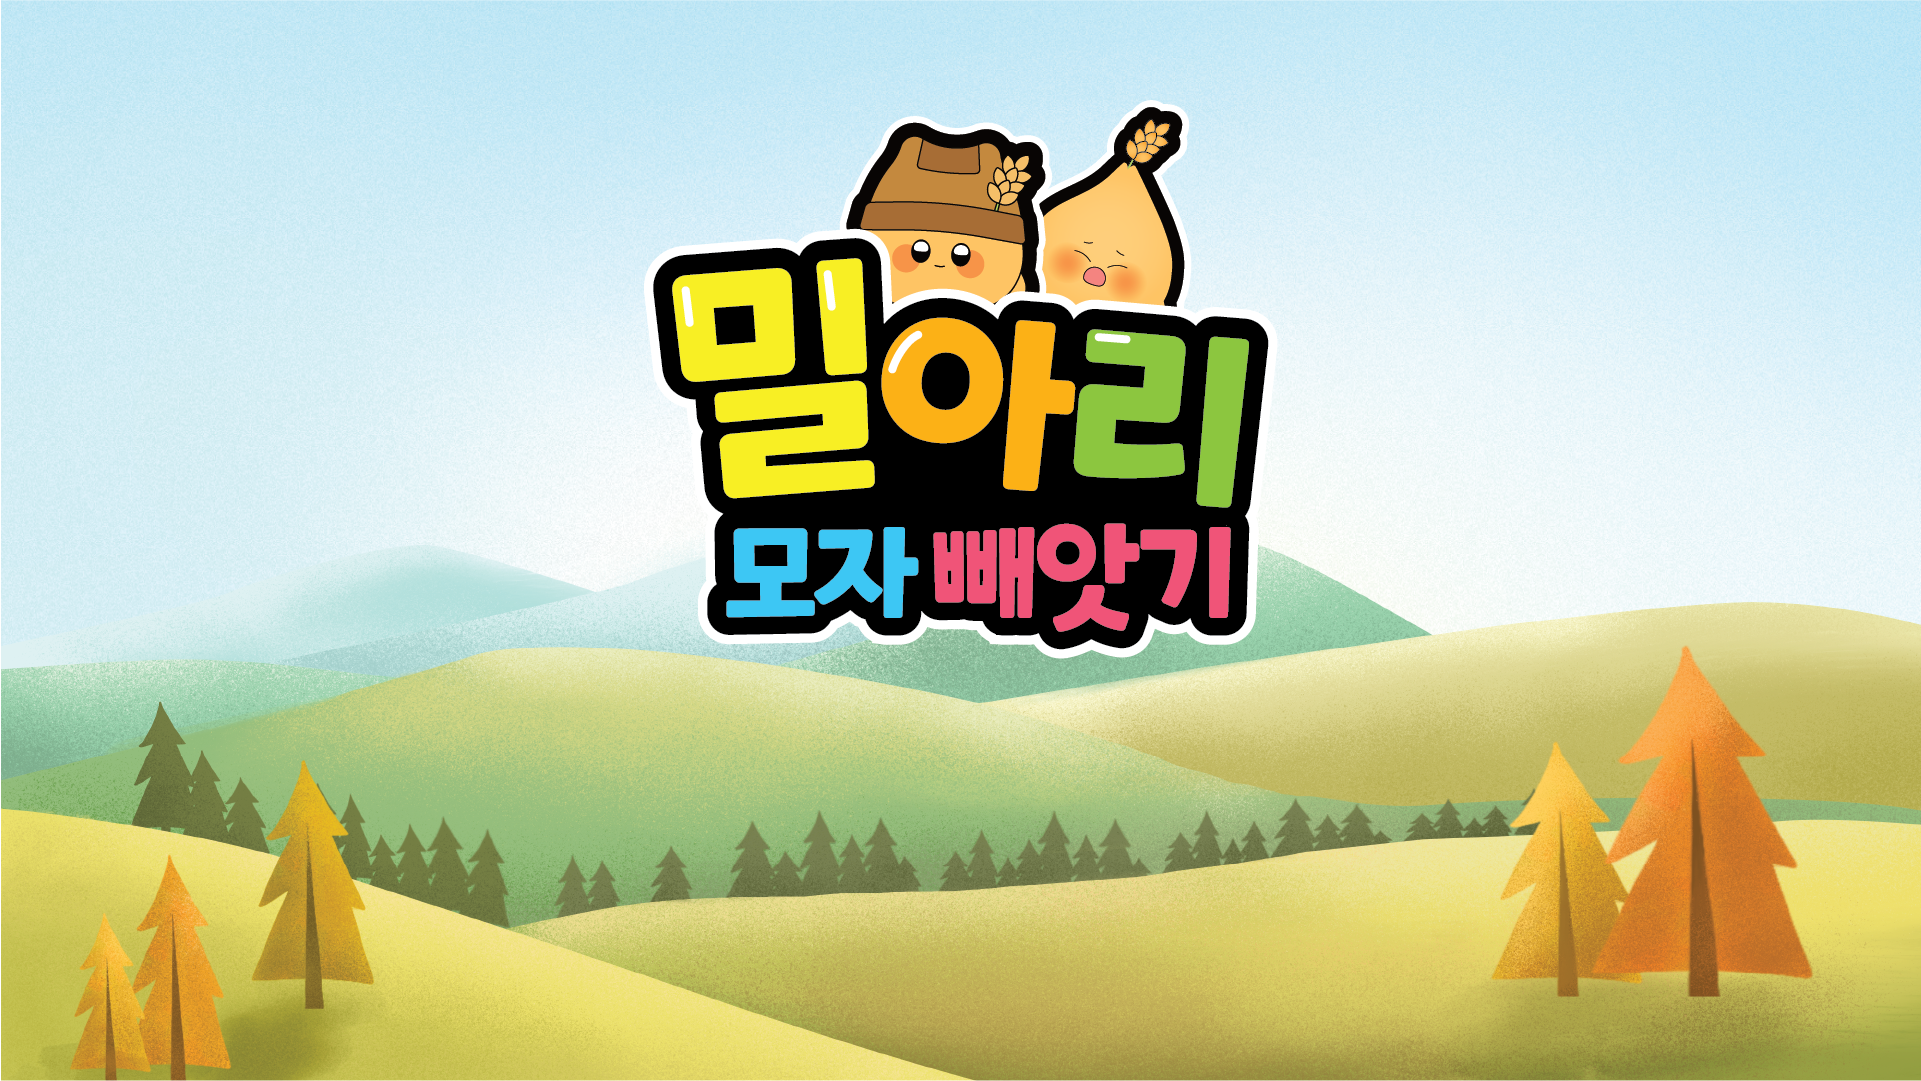
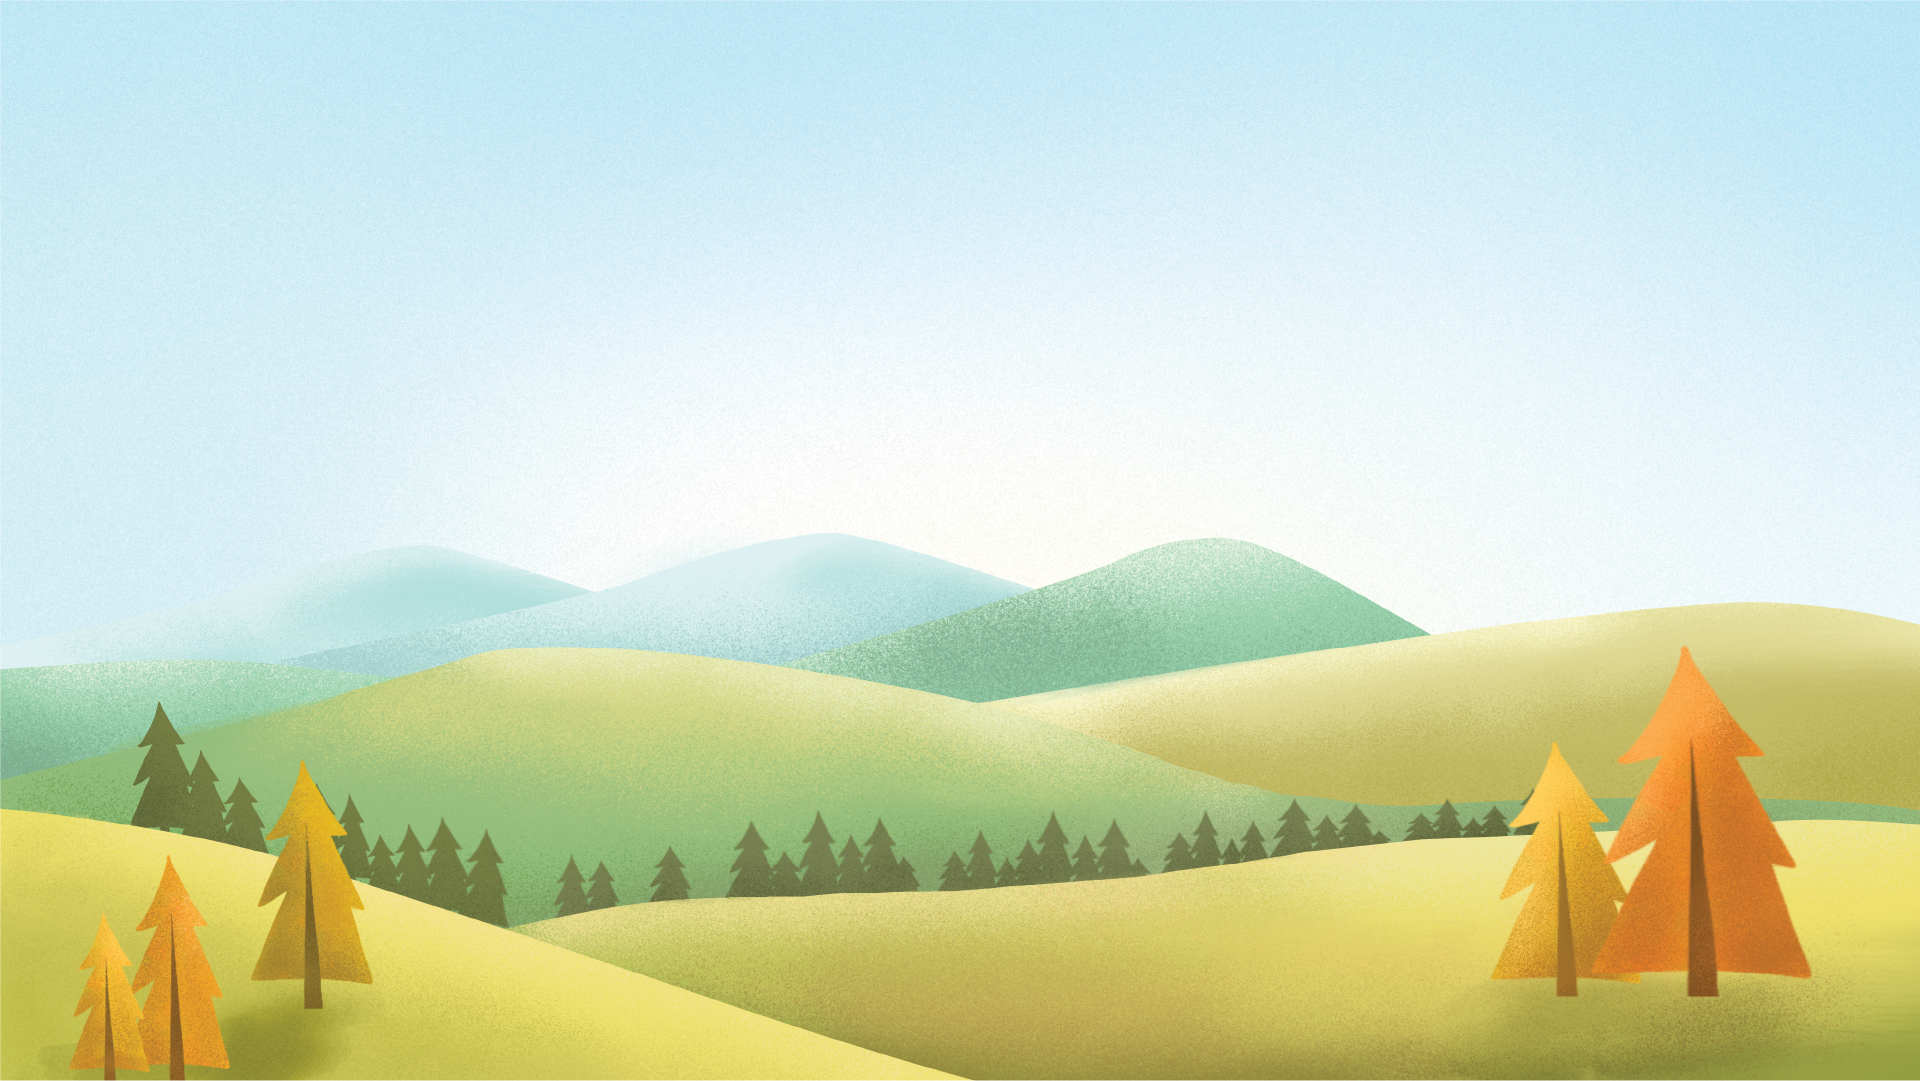
start button update & adding title img 2

Changed region(s): [[0.3123, 0.0916, 0.6871, 0.6105], [0.9995, 0.0, 1.0, 1.0], [0.0312, 0.6105, 0.1249, 0.6411]]

diff --git a/public/index.html b/public/index.html
@@ -36,6 +36,12 @@
   <div id="home-screen" style="display: flex;">
     
     <img src="assets/settings.webp" alt="Settings" id="settings-button">
+      <!-- 상단 중앙의 타이틀 이미지 -->
+    <div id="home-top">
+      <div id="title">
+        <img src="assets/title.webp" alt="Title">
+      </div>
+    </div>
     <div id="home-contents">
       <!-- 지역 선택 버튼 및 드롭다운 -->
       <div id="region-selection">
